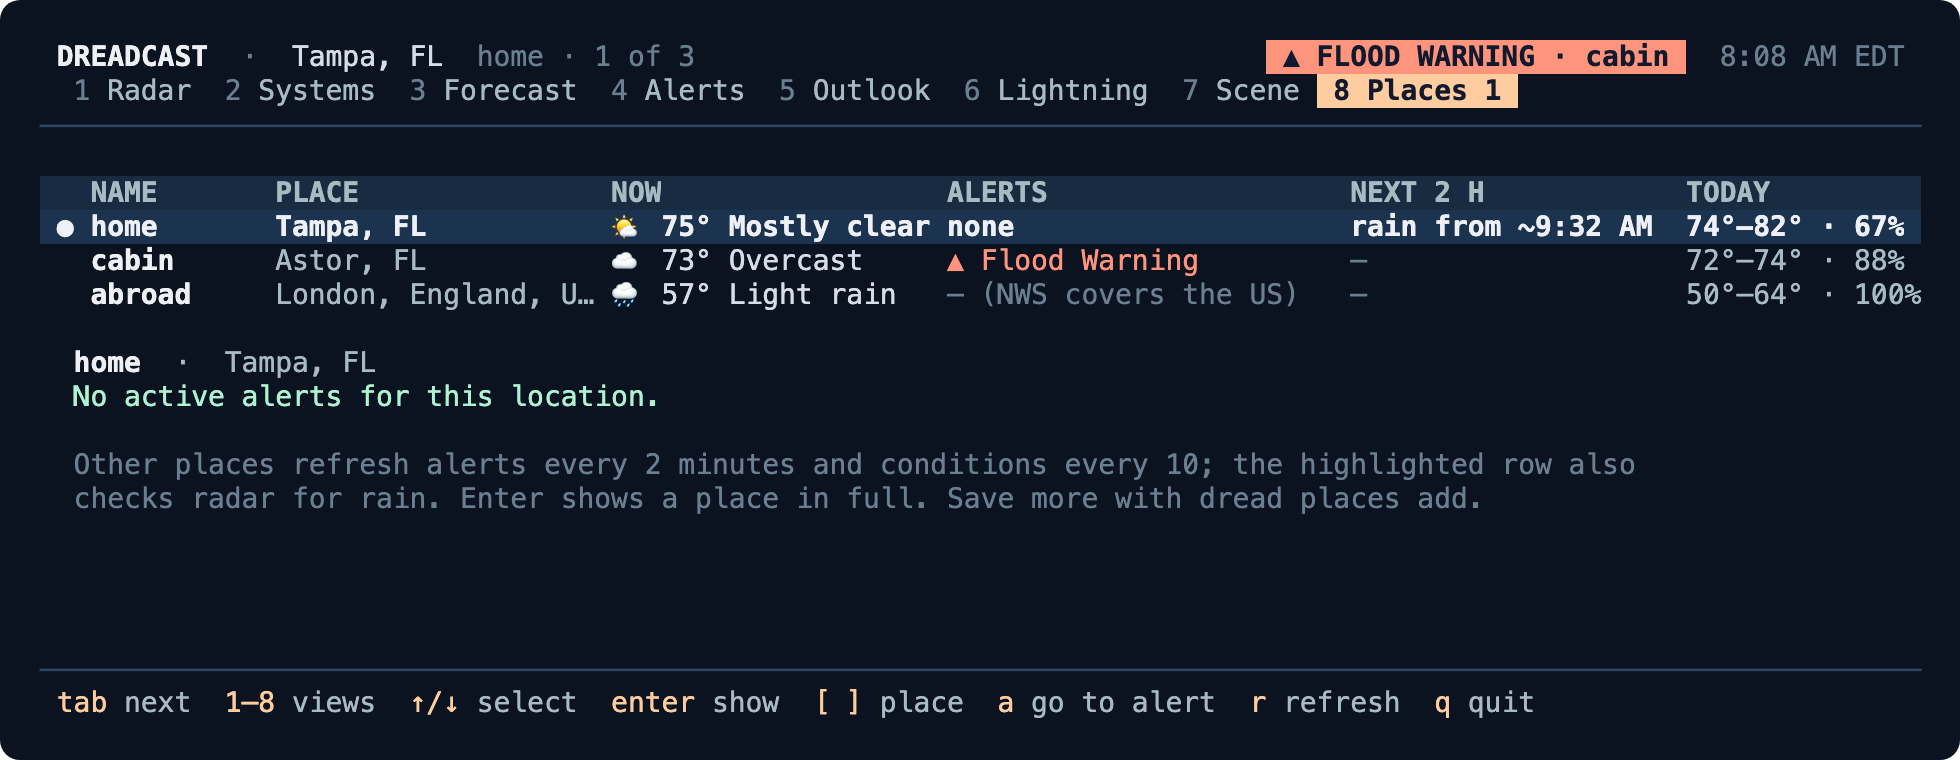
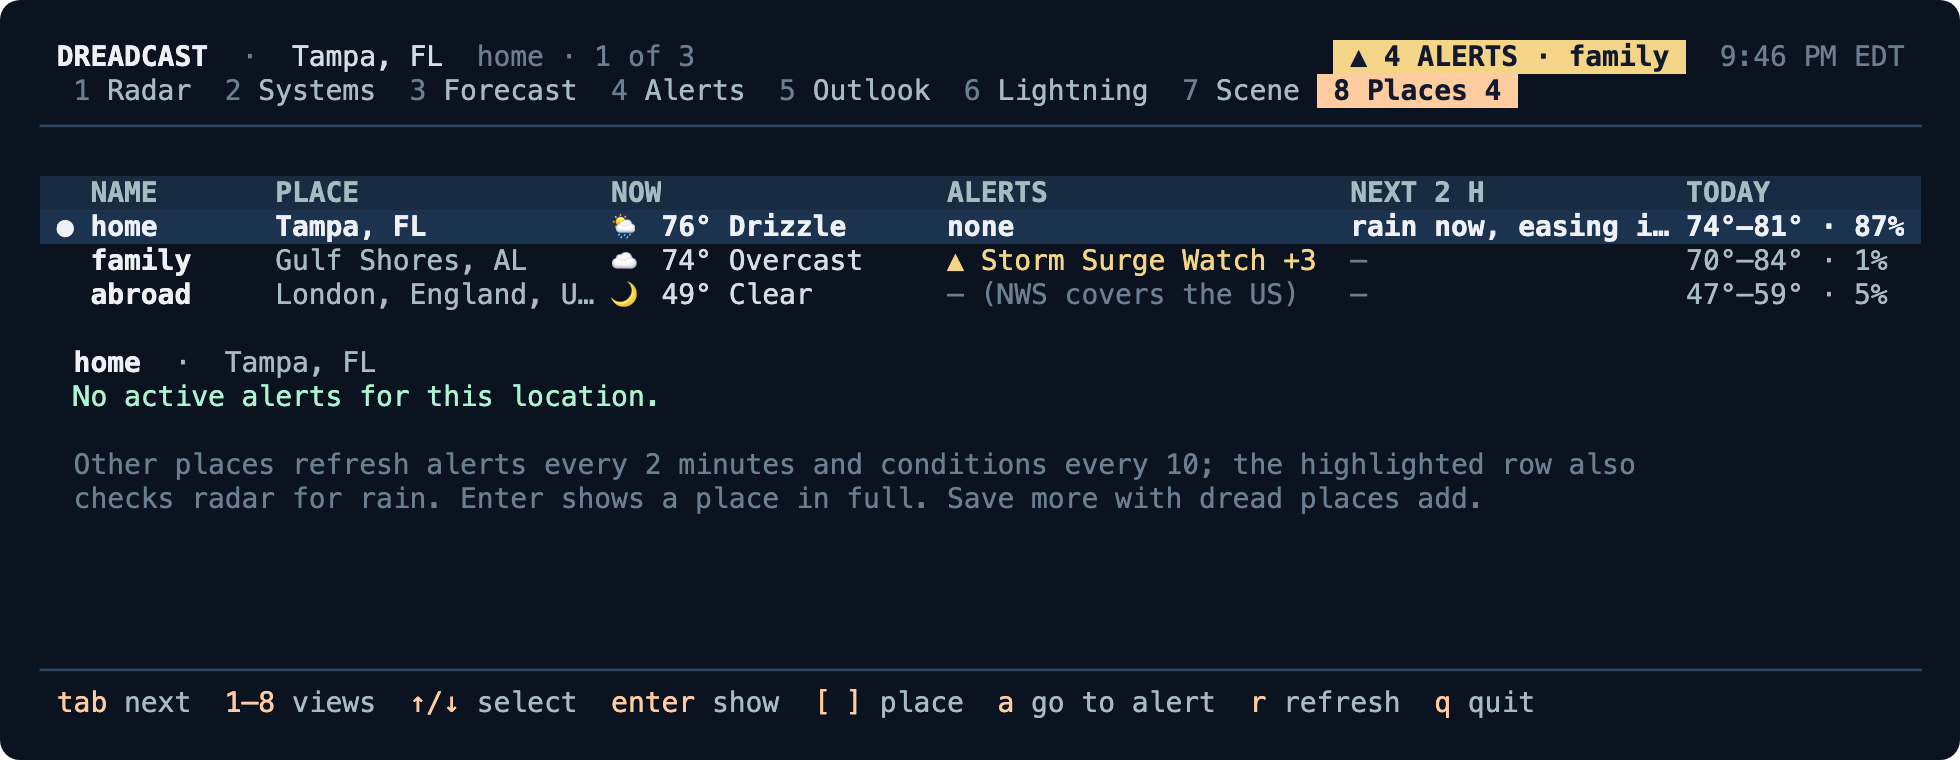
Refresh the README for the public release
Screenshots are recaptured from live runs of the current CLI: radar and rain timing
now credit NOAA MRMS, the Places tab shows Tampa with Gulf Shores under a Hurricane
Watch and London on OPERA radar, and the alerts example is a Storm Surge Watch (its
alt text said Flood Warning). The rain timing shot shows 0.3.1's layout, with the
credit on its own Radar row.

The README's radar explainer described RainViewer only; it now covers the Dreadcast
API's measured MRMS and OPERA radar, and the first highlight names the radar sources.
The USGS link in DATA_PROVIDERS pointed at a page that no longer exists.

For the community profile: a code of conduct (Contributor Covenant 2.1, reports to the
address on dreadcast.app), linked from the README and CONTRIBUTING, and issue-picker
links that send security reports to private reporting.

Claude-Session: https://claude.ai/code/session_01JEER43i3Ns1mcGotcibZBf

diff --git a/README.md b/README.md
@@ -30,9 +30,10 @@ it runs on macOS and Linux.
 ## Highlights
 
 - **Radar first.** Open `dread` and the last eight radar frames fill the window,
-  animated, centered on you and redrawn in Dreadcast’s palettes over a built-in map.
-  Conditions and the next two hours sit above it and the coming days below, as in the
-  Mac app. `dread radar` draws full-resolution images in Kitty, Ghostty, iTerm2 and
+  animated, centered on you and redrawn in Dreadcast’s palettes over a built-in map:
+  NOAA’s 1 km MRMS radar across the US and EUMETNET OPERA across Europe, from
+  Dreadcast’s radar API, and RainViewer everywhere else. Conditions and the next two
+  hours sit above it and the coming days below, as in the Mac app. `dread radar` draws full-resolution images in Kitty, Ghostty, iTerm2 and
   WezTerm.
 - **Every warning, in full.** NWS watches, warnings and advisories with their official
   instructions. A new alert shows up in the header whichever tab you’re on.
@@ -60,7 +61,7 @@ it runs on macOS and Linux.
     <td align="center"><b>Systems</b> · tab 2</td>
   </tr>
   <tr>
-    <td width="50%"><img src="docs/images/alerts.png" alt="An active NWS Flood Warning shown in full"></td>
+    <td width="50%"><img src="docs/images/alerts.png" alt="An active NWS Storm Surge Watch shown in full"></td>
     <td width="50%"><img src="docs/images/outlook.png" alt="Solar activity, aurora, earthquakes and hazards"></td>
   </tr>
   <tr>
@@ -222,10 +223,12 @@ dread radar --palette viridis  # dreadcast, classic, viridis or rainviewer
 dread radar --still            # just the latest frame
 ```
 
-Dreadcast CLI reads RainViewer’s free radar tiles and converts each pixel back to
-reflectivity using RainViewer’s published color table. That’s what lets it redraw the
-radar in other palettes and measure storm motion for `dread eta`. The basemap is
-Natural Earth data built into the binary.
+In the US and Europe, radar comes from the Dreadcast API as measurements: NOAA MRMS and
+EUMETNET OPERA scans at about 1 km, stored as reflectivity values rather than colors.
+Elsewhere, Dreadcast CLI reads RainViewer’s free radar tiles and converts each pixel
+back to reflectivity using RainViewer’s published color table. Either way it works with
+measured values, which is what lets it redraw the radar in other palettes and measure
+storm motion for `dread eta`. The basemap is Natural Earth data built into the binary.
 
 </details>
 
@@ -448,7 +451,7 @@ when you’re at a terminal.
 Bug reports and pull requests are welcome. [CONTRIBUTING.md](CONTRIBUTING.md) covers
 setup and what to expect in review, and [CLAUDE.md](CLAUDE.md) describes the
 architecture. Please report security problems privately, as described in
-[SECURITY.md](SECURITY.md).
+[SECURITY.md](SECURITY.md), and follow the [code of conduct](CODE_OF_CONDUCT.md).
 
 ```sh
 scripts/test.sh                  # the full suite; never touches the network

diff --git a/CONTRIBUTING.md b/CONTRIBUTING.md
@@ -26,9 +26,9 @@ there instead of `scripts/test.sh`).
 
 `scripts/test.sh` runs everything; `scripts/test.sh --filter CommandTests` runs one
 suite. `scripts/smoke-test.sh .build/release/dread` checks a built binary end to end
-without the network, as CI does for the static Linux build. Provider decoding lives in `Tests/DreadcastKitTests`, terminal rendering in
-`Tests/DreadTerminalTests`, and the app, scenes, saved places and commands in
-`Tests/DreadCLITests`. A behavior change should come with a test that fails without it;
+without the network, as CI does for the static Linux build. Provider decoding lives in
+`Tests/DreadcastKitTests`, terminal rendering in `Tests/DreadTerminalTests`, and the
+app, scenes, saved places and commands in `Tests/DreadCLITests`. A behavior change should come with a test that fails without it;
 for a command, add a case to `CommandTests`, which runs the real command with provider
 responses stubbed and checks its output and exit code.
 
@@ -43,4 +43,5 @@ responses stubbed and checks its output and exit code.
 
 See [CLAUDE.md](CLAUDE.md) for the architecture and conventions,
 [TRADEMARKS.md](TRADEMARKS.md) before publishing a fork, and [SECURITY.md](SECURITY.md)
-to report a vulnerability privately.
+to report a vulnerability privately. Everyone taking part follows the
+[code of conduct](CODE_OF_CONDUCT.md).

diff --git a/docs/DATA_PROVIDERS.md b/docs/DATA_PROVIDERS.md
@@ -20,7 +20,7 @@ shells, never polls a provider faster than this table allows.
 | Kp index | [NOAA SWPC](https://www.swpc.noaa.gov/) | 10 min | Global | Public domain |
 | Aurora | [NOAA SWPC OVATION](https://www.swpc.noaa.gov/products/aurora-30-minute-forecast) | 15 min | Global | Public domain |
 | HF radio absorption | [NOAA SWPC D-RAP](https://www.swpc.noaa.gov/products/d-region-absorption-predictions-d-rap) | 15 min | Global | Public domain |
-| Earthquakes | [USGS](https://earthquake.usgs.gov/earthquakes/feed/) | 5 min | Global, M2.5+ | Public domain |
+| Earthquakes | [USGS](https://earthquake.usgs.gov/earthquakes/feed/v1.0/geojson.php) | 5 min | Global, M2.5+ | Public domain |
 | Volcanoes | [USGS HANS](https://volcanoes.usgs.gov/hans-public/) | 15 min | US-monitored volcanoes | Public domain |
 | Tsunamis | [NTWC / PTWC](https://www.tsunami.gov/) | 15 min | Bulletin areas | Public domain |
 | Smoke | [NOAA HMS](https://www.ospo.noaa.gov/products/land/hms.html) | 15 min | North America | Public domain |

diff --git a/CODE_OF_CONDUCT.md b/CODE_OF_CONDUCT.md
@@ -1,0 +1,19 @@
+# Code of conduct
+
+Dreadcast follows the [Contributor Covenant, version 2.1](https://www.contributor-covenant.org/version/2/1/code_of_conduct/).
+In short: be welcoming and considerate, assume good faith, and keep criticism about the
+work. Harassment, insults and personal attacks aren't tolerated anywhere in the project:
+issues, pull requests, discussions, and anywhere you represent it.
+
+## Reporting
+
+Email **kevin@dreadcast.app** about anything that breaks this code, including in private
+messages. Reports are read by the maintainer, kept confidential, and answered. If a
+report concerns the maintainer, say so, and it will be handled with that in mind.
+
+Maintainers may remove, edit or reject comments, commits, issues and other
+contributions that don't follow this code, and may ban contributors temporarily or
+permanently, as the Covenant's enforcement guidelines describe.
+
+Security problems go through private vulnerability reporting instead; see
+[SECURITY.md](SECURITY.md).
